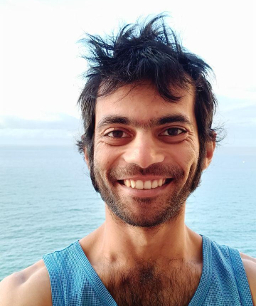
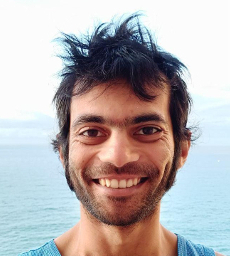
Updates

diff --git a/static/js/main.ea8709ac.chunk.js b/static/js/main.ea8709ac.chunk.js
@@ -1,0 +1,2 @@
+(this["webpackJsonpjodobear.github.io"]=this["webpackJsonpjodobear.github.io"]||[]).push([[0],{11:function(e,a,t){e.exports=t(20)},16:function(e,a,t){},19:function(e,a,t){},20:function(e,a,t){"use strict";t.r(a);var n=t(0),l=t.n(n),c=t(9),r=t.n(c),s=(t(16),t(1)),i=t(2),o=t(4),m=t(3),u=t(5),d=t(7),h=t(10),E=t.n(h),p=(t(19),function(e){function a(){return Object(s.a)(this,a),Object(o.a)(this,Object(m.a)(a).apply(this,arguments))}return Object(u.a)(a,e),Object(i.a)(a,[{key:"render",value:function(){if(this.props.data)var e=this.props.data.name,a=this.props.data.occupation,t=this.props.data.description,n=this.props.data.address.city,c=this.props.data.social.map((function(e){return l.a.createElement("li",{key:e.name},l.a.createElement("a",{href:e.url},l.a.createElement("i",{className:e.className})))}));return l.a.createElement("header",{id:"home"},l.a.createElement("nav",{id:"nav-wrap"},l.a.createElement("a",{className:"mobile-btn",href:"#nav-wrap",title:"Show navigation"},"Show navigation"),l.a.createElement("a",{className:"mobile-btn",href:"#home",title:"Hide navigation"},"Hide navigation"),l.a.createElement("ul",{id:"nav",className:"nav"},l.a.createElement("li",{className:"current"},l.a.createElement("a",{className:"smoothscroll",href:"#home"},"Home")),l.a.createElement("li",null,l.a.createElement("a",{className:"smoothscroll",href:"#about"},"About")),l.a.createElement("li",null,l.a.createElement("a",{className:"smoothscroll",href:"#resume"},"Resume")),l.a.createElement("li",null,l.a.createElement("a",{className:"smoothscroll",href:"#portfolio"},"Projects")),l.a.createElement("li",null,l.a.createElement("a",{className:"smoothscroll",href:"#testimonials"},"Testimonials")),l.a.createElement("li",null,l.a.createElement("a",{className:"smoothscroll",href:"#contact"},"Contact")))),l.a.createElement("div",{className:"row banner"},l.a.createElement("div",{className:"banner-text"},l.a.createElement("h1",{className:"responsive-headline"},"Hi! I'm ",e,"."),l.a.createElement("h3",null,"I'm a ",n," based ",l.a.createElement("span",null,a),". ",t,"."),l.a.createElement("hr",null),l.a.createElement("ul",{className:"social"},c))),l.a.createElement("p",{className:"scrolldown"},l.a.createElement("a",{className:"smoothscroll",href:"#about"},l.a.createElement("i",{className:"icon-down-circle"}))))}}]),a}(n.Component)),f=function(e){function a(){return Object(s.a)(this,a),Object(o.a)(this,Object(m.a)(a).apply(this,arguments))}return Object(u.a)(a,e),Object(i.a)(a,[{key:"render",value:function(){if(this.props.data)var e=this.props.data.social.map((function(e){return l.a.createElement("li",{key:e.name},l.a.createElement("a",{href:e.url},l.a.createElement("i",{className:e.className})))}));return l.a.createElement("footer",null,l.a.createElement("div",{className:"row"},l.a.createElement("div",{className:"twelve columns"},l.a.createElement("ul",{className:"social-links"},e),l.a.createElement("ul",{className:"copyright"},l.a.createElement("li",null,"\xa9 Copyright 2020 Nishit Shah"),l.a.createElement("li",null,"Theme inspired by ",l.a.createElement("a",{title:"Styleshout",href:"http://www.styleshout.com/"},"Styleshout")))),l.a.createElement("div",{id:"go-top"},l.a.createElement("a",{className:"smoothscroll",title:"Back to Top",href:"#home"},l.a.createElement("i",{className:"icon-up-open"})))))}}]),a}(n.Component),v=function(e){function a(){return Object(s.a)(this,a),Object(o.a)(this,Object(m.a)(a).apply(this,arguments))}return Object(u.a)(a,e),Object(i.a)(a,[{key:"render",value:function(){if(this.props.data){var e=this.props.data.name,a="images/"+this.props.data.image,t=this.props.data.bio,n=this.props.data.address.city,c=this.props.data.phone,r=this.props.data.email;this.props.data.resumedownload}return l.a.createElement("section",{id:"about"},l.a.createElement("div",{className:"row"},l.a.createElement("div",{className:"three columns"},l.a.createElement("img",{className:"profile-pic",src:a,alt:"Tim Baker Profile Pic"})),l.a.createElement("div",{className:"nine columns main-col"},l.a.createElement("h2",null,"A Bit About Me"),l.a.createElement("p",null,t),l.a.createElement("div",{className:"row"},l.a.createElement("div",{className:"columns contact-details"},l.a.createElement("h2",null,"Contact"),l.a.createElement("p",{className:"address"},l.a.createElement("span",null,e,", ",n),l.a.createElement("br",null),l.a.createElement("span",null,c),l.a.createElement("span",null,r)))))))}}]),a}(n.Component),N=function(e){function a(){return Object(s.a)(this,a),Object(o.a)(this,Object(m.a)(a).apply(this,arguments))}return Object(u.a)(a,e),Object(i.a)(a,[{key:"render",value:function(){if(this.props.data)var e=this.props.data.skillmessage,a=this.props.data.education.map((function(e){return l.a.createElement("div",{key:e.school},l.a.createElement("h3",null,e.school),l.a.createElement("p",{className:"info"},e.degree," ",l.a.createElement("span",null,"\u2022"),l.a.createElement("em",{className:"date"},e.period)),l.a.createElement("p",null,e.description))})),t=this.props.data.work.map((function(e){return l.a.createElement("div",{key:e.company},l.a.createElement("h3",null,e.company),l.a.createElement("p",{className:"info"},e.title,l.a.createElement("span",null,"\u2022")," ",l.a.createElement("em",{className:"date"},e.years)),l.a.createElement("p",null,e.description))})),n=this.props.data.skills.map((function(e){var a="bar-expand "+e.name.toLowerCase();return l.a.createElement("li",{key:e.name},l.a.createElement("span",{style:{width:e.level},className:a}),l.a.createElement("em",null,e.name))}));return l.a.createElement("section",{id:"resume"},l.a.createElement("div",{className:"row education"},l.a.createElement("div",{className:"three columns header-col"},l.a.createElement("h1",null,l.a.createElement("span",null,"Education"))),l.a.createElement("div",{className:"nine columns main-col"},l.a.createElement("div",{className:"row item"},l.a.createElement("div",{className:"twelve columns"},a)))),l.a.createElement("div",{className:"row work"},l.a.createElement("div",{className:"three columns header-col"},l.a.createElement("h1",null,l.a.createElement("span",null,"Work"))),l.a.createElement("div",{className:"nine columns main-col"},t)),l.a.createElement("div",{className:"row skill"},l.a.createElement("div",{className:"three columns header-col"},l.a.createElement("h1",null,l.a.createElement("span",null,"Skills"))),l.a.createElement("div",{className:"nine columns main-col"},l.a.createElement("p",null,e),l.a.createElement("div",{className:"bars"},l.a.createElement("ul",{className:"skills"},n)))))}}]),a}(n.Component),b=function(e){function a(){return Object(s.a)(this,a),Object(o.a)(this,Object(m.a)(a).apply(this,arguments))}return Object(u.a)(a,e),Object(i.a)(a,[{key:"render",value:function(){if(this.props.data)var e=this.props.data.contactmessage;return l.a.createElement("section",{id:"contact"},l.a.createElement("div",{className:"row section-head"},l.a.createElement("div",{className:"two columns header-col"},l.a.createElement("h1",null,l.a.createElement("span",null,"Get In Touch."))),l.a.createElement("div",{className:"ten columns"},l.a.createElement("p",{className:"lead"},e))),l.a.createElement("div",{className:"row"},l.a.createElement("div",{className:"eight columns"},l.a.createElement("form",{action:"",method:"post",id:"contactForm",name:"contactForm"},l.a.createElement("fieldset",null,l.a.createElement("div",null,l.a.createElement("label",{htmlFor:"contactName"},"Name ",l.a.createElement("span",{className:"required"},"*")),l.a.createElement("input",{type:"text",defaultValue:"",size:"35",id:"contactName",name:"contactName",onChange:this.handleChange})),l.a.createElement("div",null,l.a.createElement("label",{htmlFor:"contactEmail"},"Email ",l.a.createElement("span",{className:"required"},"*")),l.a.createElement("input",{type:"text",defaultValue:"",size:"35",id:"contactEmail",name:"contactEmail",onChange:this.handleChange})),l.a.createElement("div",null,l.a.createElement("label",{htmlFor:"contactSubject"},"Subject"),l.a.createElement("input",{type:"text",defaultValue:"",size:"35",id:"contactSubject",name:"contactSubject",onChange:this.handleChange})),l.a.createElement("div",null,l.a.createElement("label",{htmlFor:"contactMessage"},"Message ",l.a.createElement("span",{className:"required"},"*")),l.a.createElement("textarea",{cols:"50",rows:"15",id:"contactMessage",name:"contactMessage"})),l.a.createElement("div",null,l.a.createElement("button",{className:"submit"},"Submit"),l.a.createElement("span",{id:"image-loader"},l.a.createElement("img",{alt:"",src:"images/loader.gif"}))))),l.a.createElement("div",{id:"message-warning"},"Error sending message, please try again."),l.a.createElement("div",{id:"message-success"},l.a.createElement("i",{className:"fa fa-check"}),"Your message was sent, thank you!",l.a.createElement("br",null)))))}}]),a}(n.Component),g=function(e){function a(){return Object(s.a)(this,a),Object(o.a)(this,Object(m.a)(a).apply(this,arguments))}return Object(u.a)(a,e),Object(i.a)(a,[{key:"render",value:function(){if(this.props.data)var e=this.props.data.testimonials.map((function(e){return l.a.createElement("li",{key:e.user},l.a.createElement("blockquote",null,l.a.createElement("p",null,e.text),l.a.createElement("cite",null,e.user)))}));return l.a.createElement("section",{id:"testimonials"},l.a.createElement("div",{className:"text-container"},l.a.createElement("div",{className:"row"},l.a.createElement("div",{className:"two columns header-col"},l.a.createElement("h1",null,l.a.createElement("span",null,"Client Testimonials"))),l.a.createElement("div",{className:"ten columns flex-container"},l.a.createElement("ul",{className:"slides"},e)))))}}]),a}(n.Component),w=(n.Component,function(e){function a(e){var t;return Object(s.a)(this,a),(t=Object(o.a)(this,Object(m.a)(a).call(this,e))).state={foo:"bar",resumeData:{}},d.a.initialize("UA-110570651-1"),d.a.pageview(window.location.pathname),t}return Object(u.a)(a,e),Object(i.a)(a,[{key:"getResumeData",value:function(){E.a.ajax({url:"/resumeData.json",dataType:"json",cache:!1,success:function(e){this.setState({resumeData:e})}.bind(this),error:function(e,a,t){console.log(t),alert(t)}})}},{key:"componentDidMount",value:function(){this.getResumeData()}},{key:"render",value:function(){return l.a.createElement("div",{className:"App"},l.a.createElement(p,{data:this.state.resumeData.main}),l.a.createElement(v,{data:this.state.resumeData.main}),l.a.createElement(N,{data:this.state.resumeData.resume}),l.a.createElement(g,{data:this.state.resumeData.testimonials}),l.a.createElement(b,{data:this.state.resumeData.main}),l.a.createElement(f,{data:this.state.resumeData.main}))}}]),a}(n.Component)),j=Boolean("localhost"===window.location.hostname||"[::1]"===window.location.hostname||window.location.hostname.match(/^127(?:\.(?:25[0-5]|2[0-4][0-9]|[01]?[0-9][0-9]?)){3}$/));function y(e){navigator.serviceWorker.register(e).then((function(e){e.onupdatefound=function(){var a=e.installing;a.onstatechange=function(){"installed"===a.state&&(navigator.serviceWorker.controller?console.log("New content is available; please refresh."):console.log("Content is cached for offline use."))}}})).catch((function(e){console.error("Error during service worker registration:",e)}))}r.a.render(l.a.createElement(w,null),document.getElementById("root")),function(){if("serviceWorker"in navigator){if(new URL("",window.location).origin!==window.location.origin)return;window.addEventListener("load",(function(){var e="".concat("","/service-worker.js");j?function(e){fetch(e).then((function(a){404===a.status||-1===a.headers.get("content-type").indexOf("javascript")?navigator.serviceWorker.ready.then((function(e){e.unregister().then((function(){window.location.reload()}))})):y(e)})).catch((function(){console.log("No internet connection found. App is running in offline mode.")}))}(e):y(e)}))}}()}},[[11,1,2]]]);
+//# sourceMappingURL=main.ea8709ac.chunk.js.map

diff --git a/index.html b/index.html
@@ -1,1 +1,1 @@
-<!doctype html><html lang="en"><head><meta charset="utf-8"><meta name="viewport" content="width=device-width,initial-scale=1,shrink-to-fit=no"><meta name="theme-color" content="#000000"><link rel="manifest" href="/manifest.json"><link rel="shortcut icon" href="/favicon.ico"><link rel="stylesheet" href="/css/default.css"><link rel="stylesheet" href="/css/layout.css"><link rel="stylesheet" href="/css/media-queries.css"><link rel="stylesheet" href="/css/magnific-popup.css"><link rel="apple-touch-icon" sizes="180x180" href="./favicons/apple-touch-icon.png"><link rel="icon" type="image/png" sizes="32x32" href="./favicons/favicon-32x32.png"><link rel="icon" type="image/png" sizes="16x16" href="./favicons/favicon-16x16.png"><link rel="manifest" href="./favicons/site.webmanifest"><link rel="mask-icon" href="./favicons/safari-pinned-tab.svg" color="#444444"><meta name="msapplication-TileColor" content="#444444"><meta name="theme-color" content="#444444"><title>Nishit Shah</title><link href="/static/css/main.5facb584.chunk.css" rel="stylesheet"></head><body><noscript>Please enable JavaScript to view this app.</noscript><div id="root"></div><script src="https://ajax.googleapis.com/ajax/libs/jquery/1.10.2/jquery.min.js"></script><script>window.jQuery||document.write('<script src="js/jquery-1.10.2.min.js"><\/script>')</script><script type="text/javascript" src="js/jquery-migrate-1.2.1.min.js"></script><script src="js/jquery.flexslider.js"></script><script src="js/waypoints.js"></script><script src="js/jquery.fittext.js"></script><script src="js/magnific-popup.js"></script><script src="js/init.js"></script><script>!function(e){function r(r){for(var n,i,l=r[0],a=r[1],f=r[2],c=0,s=[];c<l.length;c++)i=l[c],Object.prototype.hasOwnProperty.call(o,i)&&o[i]&&s.push(o[i][0]),o[i]=0;for(n in a)Object.prototype.hasOwnProperty.call(a,n)&&(e[n]=a[n]);for(p&&p(r);s.length;)s.shift()();return u.push.apply(u,f||[]),t()}function t(){for(var e,r=0;r<u.length;r++){for(var t=u[r],n=!0,l=1;l<t.length;l++){var a=t[l];0!==o[a]&&(n=!1)}n&&(u.splice(r--,1),e=i(i.s=t[0]))}return e}var n={},o={1:0},u=[];function i(r){if(n[r])return n[r].exports;var t=n[r]={i:r,l:!1,exports:{}};return e[r].call(t.exports,t,t.exports,i),t.l=!0,t.exports}i.m=e,i.c=n,i.d=function(e,r,t){i.o(e,r)||Object.defineProperty(e,r,{enumerable:!0,get:t})},i.r=function(e){"undefined"!=typeof Symbol&&Symbol.toStringTag&&Object.defineProperty(e,Symbol.toStringTag,{value:"Module"}),Object.defineProperty(e,"__esModule",{value:!0})},i.t=function(e,r){if(1&r&&(e=i(e)),8&r)return e;if(4&r&&"object"==typeof e&&e&&e.__esModule)return e;var t=Object.create(null);if(i.r(t),Object.defineProperty(t,"default",{enumerable:!0,value:e}),2&r&&"string"!=typeof e)for(var n in e)i.d(t,n,function(r){return e[r]}.bind(null,n));return t},i.n=function(e){var r=e&&e.__esModule?function(){return e.default}:function(){return e};return i.d(r,"a",r),r},i.o=function(e,r){return Object.prototype.hasOwnProperty.call(e,r)},i.p="/";var l=this["webpackJsonpjodobear.github.io"]=this["webpackJsonpjodobear.github.io"]||[],a=l.push.bind(l);l.push=r,l=l.slice();for(var f=0;f<l.length;f++)r(l[f]);var p=a;t()}([])</script><script src="/static/js/2.01417c68.chunk.js"></script><script src="/static/js/main.7a535937.chunk.js"></script></body></html>
+<!doctype html><html lang="en"><head><meta charset="utf-8"><meta name="viewport" content="width=device-width,initial-scale=1,shrink-to-fit=no"><meta name="theme-color" content="#000000"><link rel="manifest" href="/manifest.json"><link rel="shortcut icon" href="/favicon.ico"><link rel="stylesheet" href="/css/default.css"><link rel="stylesheet" href="/css/layout.css"><link rel="stylesheet" href="/css/media-queries.css"><link rel="stylesheet" href="/css/magnific-popup.css"><link rel="apple-touch-icon" sizes="180x180" href="./favicons/apple-touch-icon.png"><link rel="icon" type="image/png" sizes="32x32" href="./favicons/favicon-32x32.png"><link rel="icon" type="image/png" sizes="16x16" href="./favicons/favicon-16x16.png"><link rel="manifest" href="./favicons/site.webmanifest"><link rel="mask-icon" href="./favicons/safari-pinned-tab.svg" color="#444444"><meta name="msapplication-TileColor" content="#444444"><meta name="theme-color" content="#444444"><title>Nishit Shah</title><link href="/static/css/main.5facb584.chunk.css" rel="stylesheet"></head><body><noscript>Please enable JavaScript to view this app.</noscript><div id="root"></div><script src="https://ajax.googleapis.com/ajax/libs/jquery/1.10.2/jquery.min.js"></script><script>window.jQuery||document.write('<script src="js/jquery-1.10.2.min.js"><\/script>')</script><script type="text/javascript" src="js/jquery-migrate-1.2.1.min.js"></script><script src="js/jquery.flexslider.js"></script><script src="js/waypoints.js"></script><script src="js/jquery.fittext.js"></script><script src="js/magnific-popup.js"></script><script src="js/init.js"></script><script>!function(e){function r(r){for(var n,i,l=r[0],a=r[1],f=r[2],c=0,s=[];c<l.length;c++)i=l[c],Object.prototype.hasOwnProperty.call(o,i)&&o[i]&&s.push(o[i][0]),o[i]=0;for(n in a)Object.prototype.hasOwnProperty.call(a,n)&&(e[n]=a[n]);for(p&&p(r);s.length;)s.shift()();return u.push.apply(u,f||[]),t()}function t(){for(var e,r=0;r<u.length;r++){for(var t=u[r],n=!0,l=1;l<t.length;l++){var a=t[l];0!==o[a]&&(n=!1)}n&&(u.splice(r--,1),e=i(i.s=t[0]))}return e}var n={},o={1:0},u=[];function i(r){if(n[r])return n[r].exports;var t=n[r]={i:r,l:!1,exports:{}};return e[r].call(t.exports,t,t.exports,i),t.l=!0,t.exports}i.m=e,i.c=n,i.d=function(e,r,t){i.o(e,r)||Object.defineProperty(e,r,{enumerable:!0,get:t})},i.r=function(e){"undefined"!=typeof Symbol&&Symbol.toStringTag&&Object.defineProperty(e,Symbol.toStringTag,{value:"Module"}),Object.defineProperty(e,"__esModule",{value:!0})},i.t=function(e,r){if(1&r&&(e=i(e)),8&r)return e;if(4&r&&"object"==typeof e&&e&&e.__esModule)return e;var t=Object.create(null);if(i.r(t),Object.defineProperty(t,"default",{enumerable:!0,value:e}),2&r&&"string"!=typeof e)for(var n in e)i.d(t,n,function(r){return e[r]}.bind(null,n));return t},i.n=function(e){var r=e&&e.__esModule?function(){return e.default}:function(){return e};return i.d(r,"a",r),r},i.o=function(e,r){return Object.prototype.hasOwnProperty.call(e,r)},i.p="/";var l=this["webpackJsonpjodobear.github.io"]=this["webpackJsonpjodobear.github.io"]||[],a=l.push.bind(l);l.push=r,l=l.slice();for(var f=0;f<l.length;f++)r(l[f]);var p=a;t()}([])</script><script src="/static/js/2.01417c68.chunk.js"></script><script src="/static/js/main.ea8709ac.chunk.js"></script></body></html>

diff --git a/precache-manifest.e11469e41598bfc2e070c5674af745e3.js b/precache-manifest.e11469e41598bfc2e070c5674af745e3.js
@@ -1,10 +1,10 @@
 self.__precacheManifest = (self.__precacheManifest || []).concat([
   {
-    "revision": "d277dc5b4d92d44af8d6039a809c9460",
+    "revision": "b2fcf47a668a9d5b13e7824bd7d9cdbe",
     "url": "/index.html"
   },
   {
-    "revision": "9d479b013d76f3e9fc72",
+    "revision": "04112189d2f3402e65b9",
     "url": "/static/css/main.5facb584.chunk.css"
   },
   {
@@ -16,8 +16,8 @@ self.__precacheManifest = (self.__precacheManifest || []).concat([
     "url": "/static/js/2.01417c68.chunk.js.LICENSE.txt"
   },
   {
-    "revision": "9d479b013d76f3e9fc72",
-    "url": "/static/js/main.7a535937.chunk.js"
+    "revision": "04112189d2f3402e65b9",
+    "url": "/static/js/main.ea8709ac.chunk.js"
   },
   {
     "revision": "2d9aaa07735ac5f72785",

diff --git a/service-worker.js b/service-worker.js
@@ -14,7 +14,7 @@
 importScripts("https://storage.googleapis.com/workbox-cdn/releases/4.3.1/workbox-sw.js");
 
 importScripts(
-  "/precache-manifest.e372f4ff9eab3ffc6c6e2d78351aea64.js"
+  "/precache-manifest.e11469e41598bfc2e070c5674af745e3.js"
 );
 
 self.addEventListener('message', (event) => {

diff --git a/css/layout.css b/css/layout.css
@@ -203,8 +203,8 @@ ul#nav li.current a { color: #F06000; }
 }
 #about .profile-pic {
   position: relative;
-  width: 128px;
-  height: 156px;
+  width: 144px;
+  height: 161px;
   border-radius: 100%;
 }
 #about .contact-details { width: 41.66667%; }
